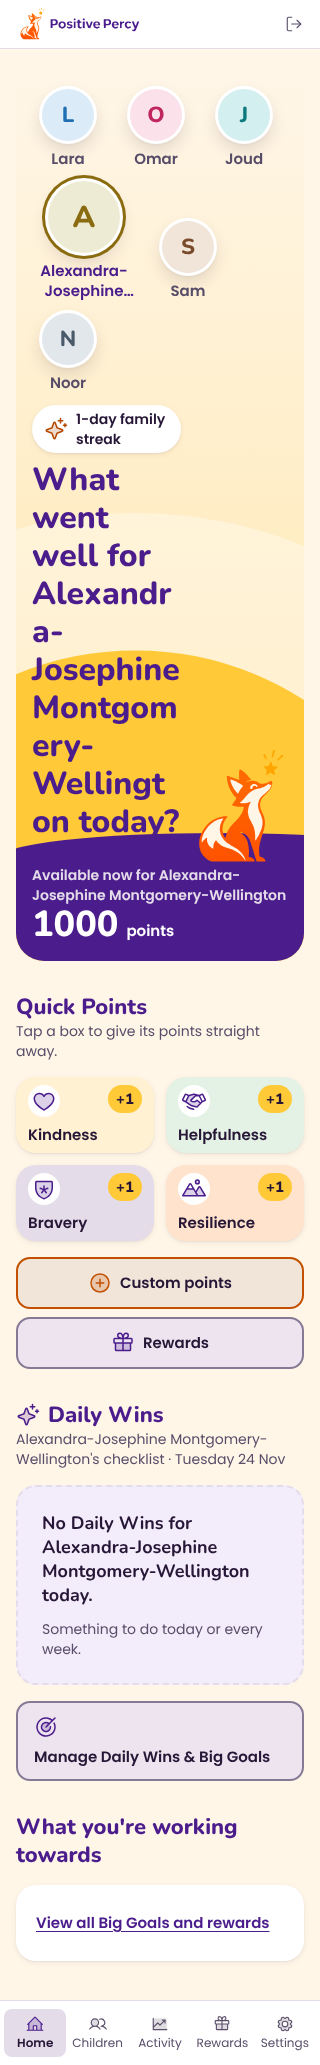
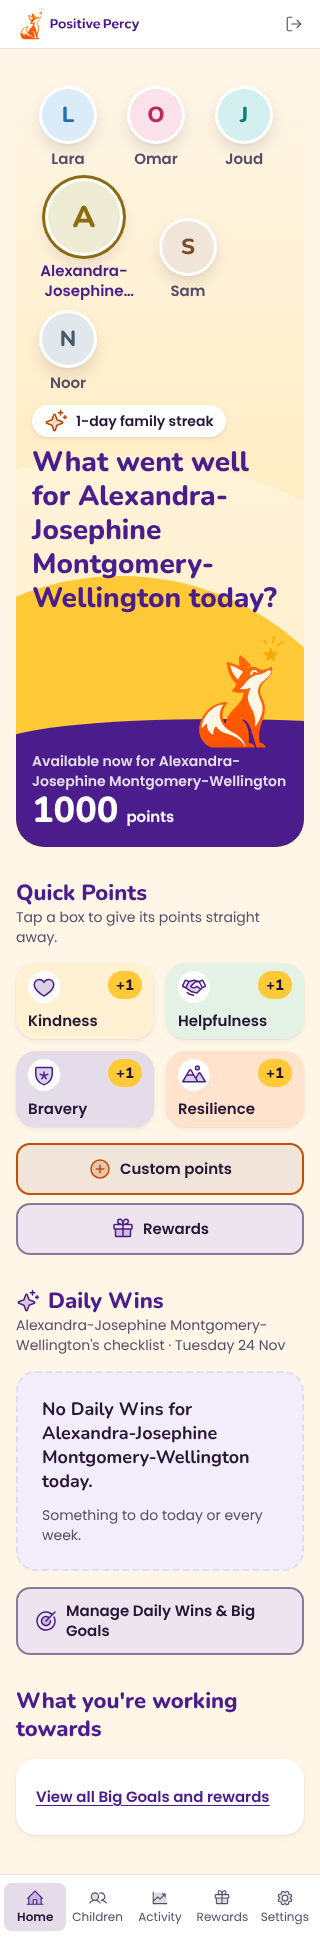
fix(v1.1): long names never break mid-word; photo checks through the real upload path
Owner decisions of 24 Nov recorded (15px phone boxes kept, wording and
structure approved, Fox colours kept provisionally, artwork to proceed).

- Headings break only between words or at a name's own hyphen; a long
  name steps the Home headline to 28px and takes the hero's full width
- App QA: a character-by-character mid-word check on the Home headline and
  Children profile name (caught the old rule before the fix); photo
  checks that upload labelled crop-test cards through /api/upload, fail
  one image, and measure sizes, crop and fallback on both screens
- Long words at 200% text wrap instead of widening Children
- Manage Daily Wins & Big Goals keeps its icon beside the label
- Fox brief v0.2.0, P3 handback section 11

Claude-Session: https://claude.ai/code/session_01S1yExfNAhm1AwiwanVucDR

diff --git a/src/styles/percy-v11.css b/src/styles/percy-v11.css
@@ -29,7 +29,10 @@
 .pv-col { display: grid; gap: var(--pv-space-6); align-content: start; min-width: 0; }
 
 /* ---- Type roles. Sentence case and no tracking, as everywhere in Percy. ---- */
-.pv-t-hero, .pv-t-page, .pv-t-section, .pv-t-card { overflow-wrap: anywhere; hyphens: auto; margin: 0; }
+/* Headings break only between words or at a name's own hyphen; a single word
+   wider than the line (a 30-letter name) still breaks rather than overflow.
+   No automatic hyphenation: names are not split mid-word (owner, 24 Nov). */
+.pv-t-hero, .pv-t-page, .pv-t-section, .pv-t-card { overflow-wrap: break-word; hyphens: manual; margin: 0; }
 .pv-t-hero { font-family: var(--pv-font-display); font-weight: var(--pv-w-800); font-size: var(--pv-hero-size); line-height: var(--pv-hero-line); color: var(--pv-purple); text-wrap: balance; }
 .pv-t-page { font-family: var(--pv-font-display); font-weight: var(--pv-w-800); font-size: var(--pv-page-size); line-height: var(--pv-page-line); color: var(--pv-purple); text-wrap: balance; }
 .pv-t-section { font-family: var(--pv-font-display); font-weight: var(--pv-w-800); font-size: var(--pv-section-size); line-height: var(--pv-section-line); color: var(--pv-purple); }
@@ -390,3 +393,15 @@
 .pv-points-line { min-width: 0; }
 .pv-points-line > p { display: grid; gap: 0; margin: 0; min-width: 0; }
 .pv-points-line .pv-t-meta { overflow-wrap: anywhere; }
+
+/* A long name takes the Home headline one step down (owner, 24 Nov: no
+   mid-word breaks at 320px). */
+.pv-t-hero[data-long-name] { font-size: var(--pv-page-size); line-height: var(--pv-page-line); }
+/* Let headings and list rows shrink below their longest word so break-word
+   can wrap it (otherwise one long word at 200% text widens the page). */
+.pv-section > *, .pv-achievements > li, .pv-goals > li, .pv-manage > li, .pv-treats > li, .pv-goal-list > li,
+.pv-t-hero, .pv-t-page, .pv-t-section, .pv-t-card { min-width: 0; }
+/* A long name gets the whole width of the hero; Percy moves under it. */
+.pv-scene__text[data-long-name] { grid-column: 1 / -1; }
+.pv-scene__text[data-long-name] ~ .pv-scene__fox { grid-column: 2; }
+.pv-manage-door { flex-wrap: nowrap; }

diff --git a/src/components/percy/HomeV11.jsx b/src/components/percy/HomeV11.jsx
@@ -14,6 +14,10 @@ import { ChildSelector, PercyFox, MorningArt } from './parts';
 
 // The morning scene: child picker, the question, Percy, and the points the
 // child can use now as a plain balance (no ring: it is not progress).
+// A name that would crowd the 32px headline on a phone: long overall, or one
+// word (split at spaces and hyphens) longer than fits a 288px line.
+export const isLongName = (name = '') => name.length > 16 || name.split(/[\s-]+/).some((w) => w.length > 11);
+
 export function HomeHero({ children, child, streak, foxPlay, onSelect }) {
   const available = child.available_points ?? child.total_points ?? 0;
   return (
@@ -21,11 +25,11 @@ export function HomeHero({ children, child, streak, foxPlay, onSelect }) {
       <MorningArt />
       <div className="pv-scene__sky">
         <ChildSelector children={children} selectedId={child.id} onSelect={onSelect} />
-        <div className="pv-scene__text">
+        <div className="pv-scene__text" data-long-name={isLongName(child.name) ? '' : undefined}>
           {streak > 0 && (
             <p className="pv-chip"><PercyIcon id="phosphor:sparkle:duotone" />{streak}-day family streak</p>
           )}
-          <h1 id="home-title" className="pv-t-hero">What went well for {child.name} today?</h1>
+          <h1 id="home-title" className="pv-t-hero" data-long-name={isLongName(child.name) ? '' : undefined}>What went well for {child.name} today?</h1>
         </div>
         <div className="pv-scene__fox"><PercyFox pose="waving" size="hero" play={foxPlay} /></div>
       </div>

diff --git a/src/components/percy/PercyV11.test.jsx b/src/components/percy/PercyV11.test.jsx
@@ -4,7 +4,7 @@ import { describe, it, expect, vi } from 'vitest';
 import { render, screen, fireEvent, within } from '@testing-library/react';
 import { MemoryRouter } from 'react-router-dom';
 import { ProgressRing, PercyAvatar, ChildSelector, PercyFox, JourneyStop } from './parts';
-import { HomeHero, HomeQuickPoints, HomeWorkingTowards } from './HomeV11';
+import { HomeHero, HomeQuickPoints, HomeWorkingTowards, isLongName } from './HomeV11';
 
 const C = 2 * Math.PI * 42;
 const arc = (el) => el.querySelector('[data-ring-value]');
@@ -135,5 +135,11 @@ describe('Home V1.1', () => {
     const { container } = render(<ol><JourneyStop label="This week" value={12} max={0} unit="points" note="No weekly target set yet" ring={null} /></ol>);
     expect(container.querySelector('.pv-stop__figure').textContent).toBe('12 points');
     expect(container.textContent).not.toContain('of 0');
+  });
+  it('long names take the headline one step down; ordinary names do not', () => {
+    expect(['Lara', 'Omar', 'Joud', 'Sam', 'Alexandra'].map(isLongName)).toEqual([false, false, false, false, false]);
+    expect(['Alexandra-Josephine Montgomery-Wellington', 'LongDWolfeschlegelsteinhausenb', 'Maximilianusz'].map(isLongName)).toEqual([true, true, true]);
+    const { container } = render(<HomeHero children={kids} child={{ ...kids[0], name: 'Alexandra-Josephine Montgomery-Wellington' }} streak={0} foxPlay={0} onSelect={() => {}} />);
+    expect(container.querySelector('#home-title').hasAttribute('data-long-name')).toBe(true);
   });
 });

diff --git a/design/v11/P3_HANDBACK.md b/design/v11/P3_HANDBACK.md
@@ -2,7 +2,7 @@
 
 | | |
 |---|---|
-| Version | 0.4.0 |
+| Version | 0.5.0 |
 | Issued | 23 November 2026 (revised 24 November) |
 | Owner | Percy V1.1 design engineering |
 | Status | **Draft PR for owner review. Not merged, not deployed.** Production V1 is untouched. |
@@ -206,11 +206,48 @@ Reproduced: in one run of six, a style injected by the QA script was still only 
 
 `e2e/daily-wins-big-goals.spec.js` "long names, large figures, many Daily Wins…" failed twice at 1280px on this branch: "the pop-up ends on the screen", 1063 > 800. It then passed three times unmodified, and the same test passed on the base. The figure is exactly the pop-up on the first frame of its opening zoom: 680px tall at `top: 50%` (400–1080), scaled 0.95 about its centre to 417–1063, before the final `translate(-50%, -50%)`. The test measured before the animation had finished, and lost the race under load. It now waits for the pop-up's animations to finish before measuring, exactly as the repo's slim-box test already does for the same reason. The assertion is unchanged. Full suite afterwards: 66 passed, 0 failed, 22 skipped by design.
 
+## 11. Owner decisions and final checks (24 November)
+
+### 11a. Decisions recorded
+
+| Item | Owner decision |
+|---|---|
+| Quick Points on phones | Keep 15px labels in compact two-row boxes; do not revert to 12px |
+| Home wording | Approved, including the headline "What went well for {name} today?" and the 24 Nov Quick Points wording and buttons |
+| Children wording | Approved as in section 4 (and the Daily Wins and Big Goals names from #75) |
+| Home and Children structure | Approved |
+| Fox 1A colours | Keep the existing appearance provisionally (`#FFA600` star, cream interiors, subtle gradient); verify against the approved original before vector sign-off (`fox1a/COMMISSIONING_BRIEF.md` v0.2.0) |
+| Fox artwork | Proceed: layered master, five approved poses, plus waving, celebrating and pointing |
+| Long-name wrapping | Fix before final visual acceptance (done, 11b) |
+| Child photos | The owner checks privately with authorised photos; none are uploaded to GitHub (11c) |
+
+### 11b. Long names no longer break mid-word
+
+- Headings break only between words or at a name's own hyphen, with no automatic hyphenation. A single word wider than the line (a 30-letter name with no spaces or hyphens) still breaks rather than widening the page.
+- A long name (over 16 letters, or one word over 11) steps the Home headline down from 32 to 28px on phones, and the headline takes the hero's full width with Percy below it.
+- "Alexandra-Josephine Montgomery-Wellington" now reads "What went well / for Alexandra- / Josephine / Montgomery- / Wellington today?" at 320px.
+- New app-QA check: it walks the Home headline and the Children profile name character by character and fails if a line breaks other than at a space or after a hyphen. It caught the old rule ("Montgomery|-Wellington") before the fix.
+- A side effect was found and fixed: without break-anywhere, one long word at 200% text widened Children by 4px. Headings and list rows can now shrink so the word wraps.
+
+### 11c. Photos in the real app (no family photos)
+
+The app QA now uploads three labelled crop-test cards (portrait 2:3, landscape 2:1 and square, each with a "FACE ZONE") through the app's own `/api/upload` and attaches them to children. The browser's request for the third is made to fail. On Home and Children at 320, 390 and 1280px it checks:
+- that the photos load and fill a circle (`object-fit: cover`, face zone in frame);
+- the sizes: 72 / 52 / 104px on phones, 88 / 64 / 136px on desktop;
+- that the failed photo shows the initial at the same size.
+
+Screens: `evidence/app/photos-*.png`. What remains for the owner, privately: how real faces sit in the circles at each size. The images stay on their own device or a local copy of the app; nothing goes to GitHub.
+
+### 11d. Results on the final head
+
+See the session handback for the exact head and CI. Local: app QA 269 of 269.
+
 ## Change log
 
 | Version | Date | Change |
 |---|---|---|
 | 0.1.0 | 2026-11-23 | First issue |
+| 0.5.0 | 2026-11-24 | Section 11: owner decisions; long-name fix with a mid-word check; real-upload photo checks |
 | 0.4.0 | 2026-11-24 | #75 merged in, Daily Wins and Big Goals (10g); QA harness waits for injected styles (10h) |
 | 0.3.0 | 2026-11-24 | Codex review (10e); deterministic QA control (10f) |
 | 0.2.0 | 2026-11-24 | Section 10: base merged (#73, #74); 24 Nov Quick Points decisions in V1.1; 12px/15px decision; final-acceptance items |

diff --git a/design/v11/fox1a/COMMISSIONING_BRIEF.md b/design/v11/fox1a/COMMISSIONING_BRIEF.md
@@ -2,10 +2,10 @@
 
 | | |
 |---|---|
-| Version | 0.1.0 |
+| Version | 0.2.0 |
 | Issued | 23 November 2026 |
 | Owner | Positive Percy (the owner commissions and approves; engineering prepared this brief) |
-| Status | Ready to send to an illustrator once the owner approves it. No artwork has been made. |
+| Status | Scope and provisional colours approved by the owner (24 Nov). Ready to send once budget and rights are agreed. No artwork has been made. |
 | Companion files | `design/v11/fox1a/asset-manifest.json` (keys, exports, blockers), `design/v11/review/fox1a-production-board.html` (visual board) |
 
 ## 1. What we need, in one paragraph
@@ -83,16 +83,15 @@ The app animates whole SVG groups with CSS, so the layered poses are enough. If 
 
 Each item is accepted by the owner, in this order: master, then each pose, then logo repair. A pose passes when it passes every rule in section 3 at 48 px and at full size. Until a pose is accepted, the app keeps showing the seated master in its place.
 
-## 7. Decisions the owner makes before sending
+## 7. Owner decisions (24 November 2026)
 
-1. Star colour: `#FFA600` (as in the current trace) or `#FFC938` (palette "sunshine").
-2. Inner areas: white or cream `#FFF6E8`.
-3. Body: keep the subtle orange gradient (`#FF6A00` → `#FF5200`) or flat `#FF6A00`.
-4. Rights: the contract assigns full commercial rights in the master, poses and source files to the owner.
-5. Budget and timeline.
+- **Colours, provisional:** keep the existing appearance as the reference: the star `#FFA600`, cream `#FFF6E8` inner areas and the subtle orange body gradient (`#FF6A00` → `#FF5200`). Do not recolour the mascot to match the app's UI palette. Verify against the approved original before the final vector is signed off.
+- **Scope approved:** a clean layered master first, then the five approved poses plus waving, celebrating and pointing, and the stacked-logo repair.
+- **Still to settle with the illustrator:** budget, timeline, and full commercial rights in the master, poses and source files assigned to the owner.
 
 ## Change log
 
 | Version | Date | Change |
 |---|---|---|
+| 0.2.0 | 2026-11-24 | Owner decisions: provisional colours kept as they are, scope approved (section 7) |
 | 0.1.0 | 2026-11-23 | First issue, from the P1 board and the owner's review of 23 Nov (layered master, five approved poses plus waving, celebrating and pointing, stacked-logo repair, keep the approved mascot colours until the master is reviewed) |
